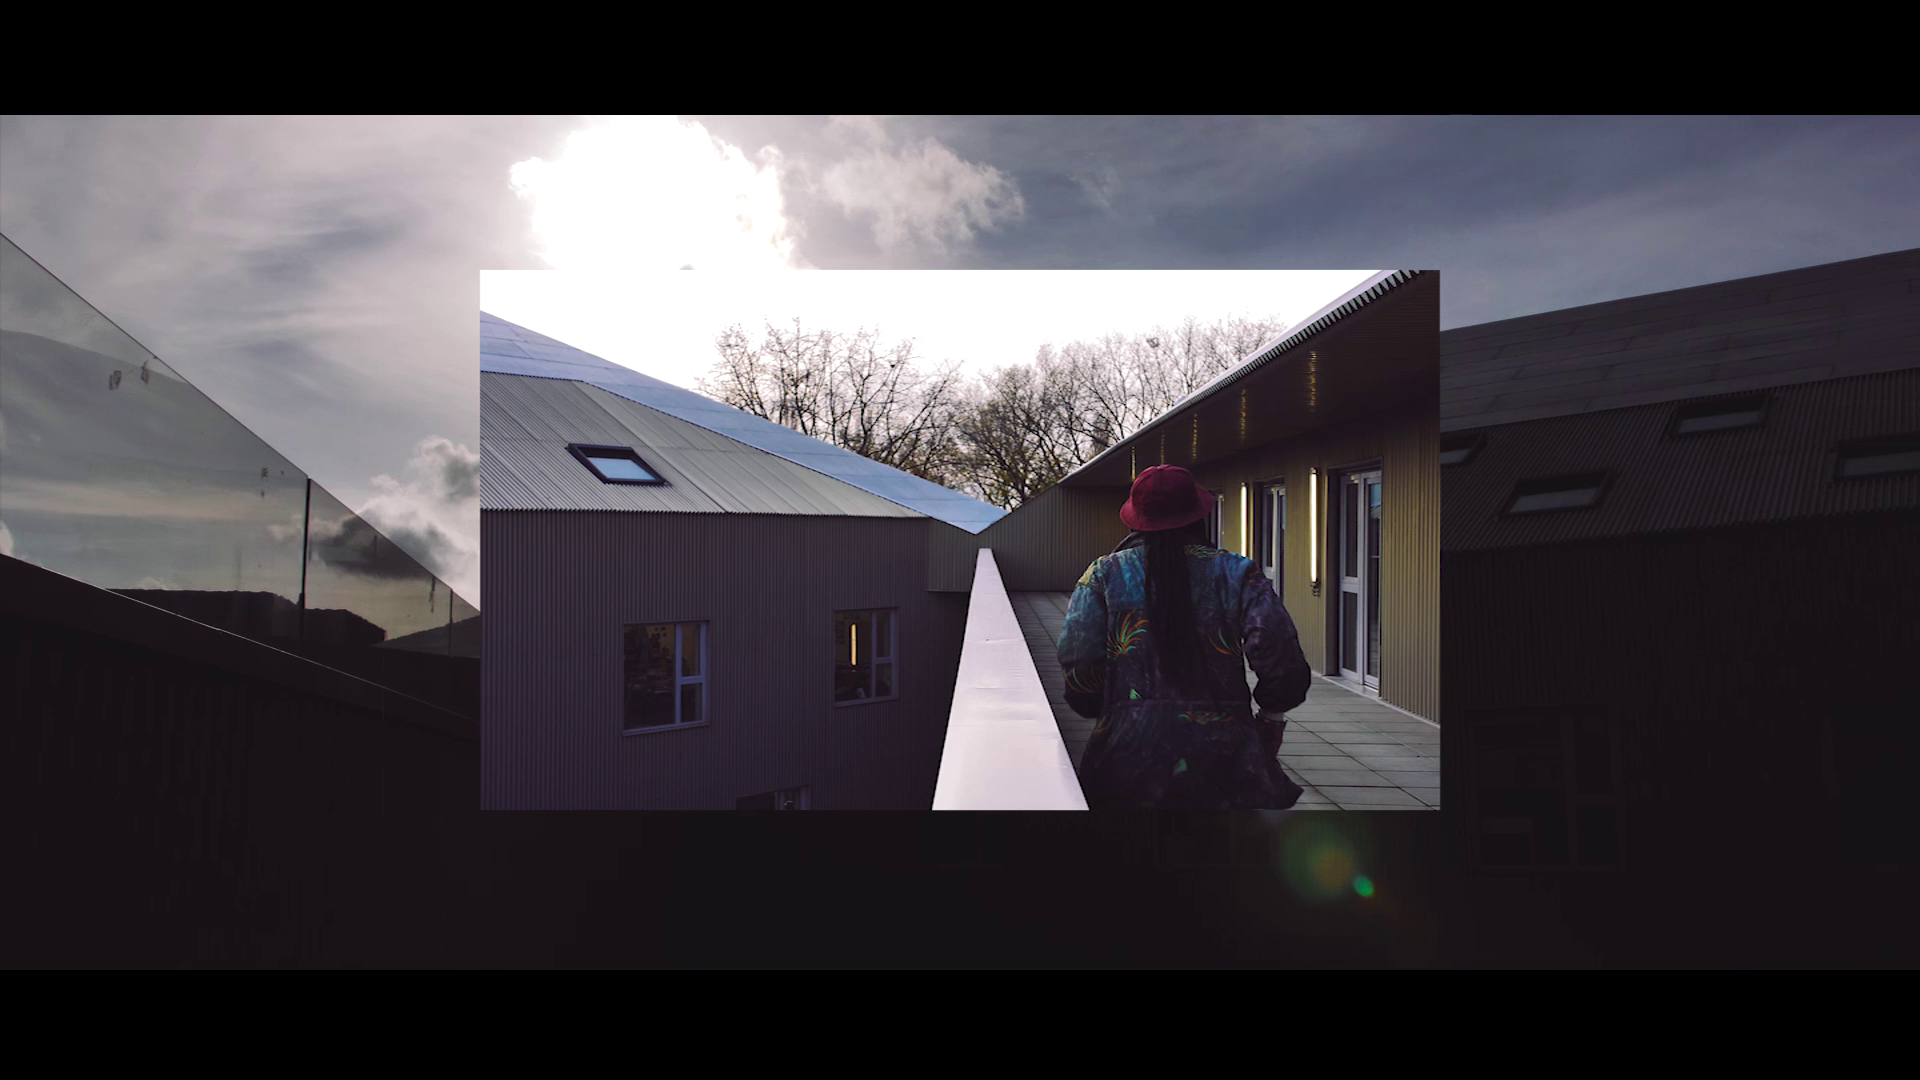
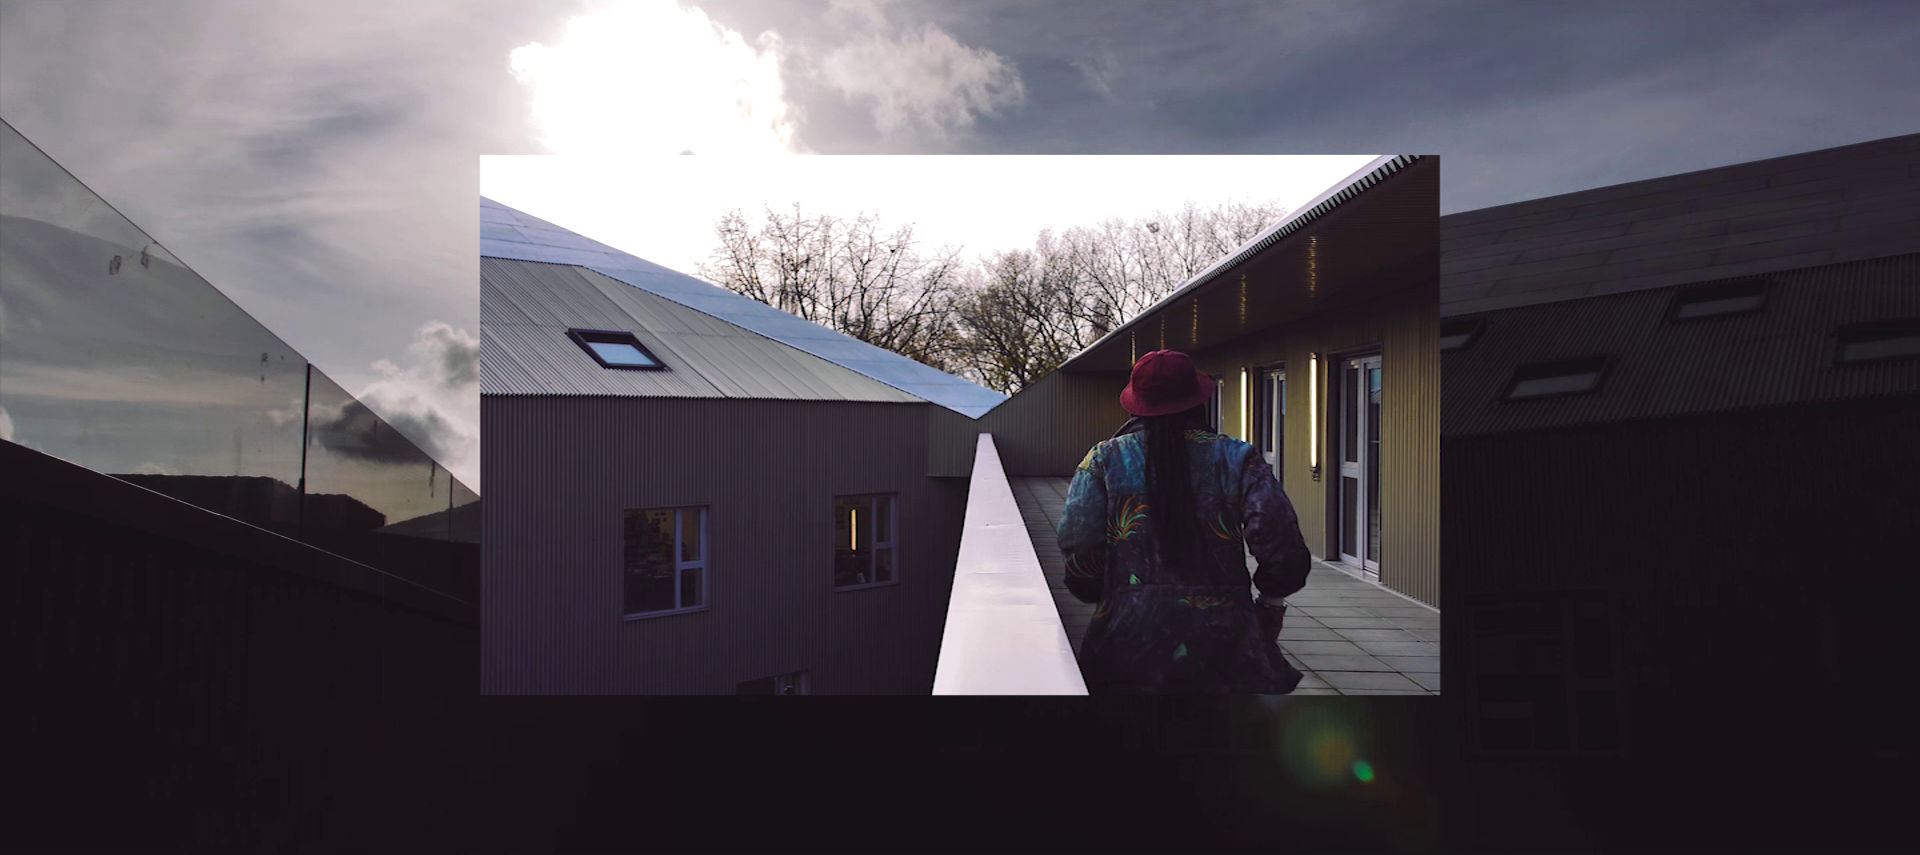
responsive ready from 1920px to 1024px

diff --git a/public/css/style.css b/public/css/style.css
@@ -31,6 +31,9 @@ a:focus {
     top:0;
     z-index: 1;
 }
+#navbar > div:first-child {
+    width: 25%;
+}
 #navbar > div:first-child a img{
     height: 100%;
 }
@@ -71,6 +74,9 @@ a:focus {
 }
 
 /* footer */
+footer {
+    background-color: #ffffff;
+}
 footer > div:first-child{
     display: flex;
     flex-direction: column;
@@ -120,17 +126,68 @@ footer > div:first-child iframe{
     margin: 15px 0px;
 }
 
-footer > div:last-child{
-    height: 100px;
+footer > div:nth-child(2){
+    display: flex;
+}
+footer > div:nth-child(2) > div {
+    flex: 1;
+    height: 80px;
+    display: flex;
+}
+footer > div:nth-child(2) > div > a {
+    color: #4d4d4d;
+    font-weight: 600;
     display: flex;
     align-items: center;
-    background-color: #ffffff;
+    text-decoration: none;
 }
+footer > div:nth-child(2) > div > a:hover {
+    background-color: rgba(77,77,77,0.15);
+}
+footer > div:nth-child(2) > div:first-child > img {
+    height: 80px;
+}
+footer > div:nth-child(2) > div:nth-child(2) > a {
+    padding: 0 1em;
+    text-transform: uppercase;
+}
+footer > div:nth-child(2) > div:nth-child(2) {
+    justify-content: center;
+}
+footer > div:nth-child(2) > div:last-child {
+    justify-content: flex-end;
+    margin: 0 1em 0 0;
+}
+footer > div:nth-child(2) > div:last-child > a {
+    padding: 0 0.5em;
+}
+
+footer > div:last-child {
+    display: flex;
+    font-size: 0.9em;
+    justify-content: space-between;
+    flex-wrap: wrap;
+}
+footer > div:last-child > p {
+    margin: 0 0.1em 0.1em 0.1em;
+    white-space: nowrap;
+}
+footer > div:last-child > p:nth-child(3) {
+    display: none;
+}
+
+/*
 footer > div:last-child > div:first-child, footer > div > div:last-child{
     flex: 1;
+    display: flex;
+    flex-direction: column;
+    height: 100%;
 }
-footer > div:last-child > div:first-child img{
-    height: 78px;
+footer > div:last-child > div:first-child > div {
+    height: 100%;
+}
+footer > div:last-child > div:first-child > div > img{
+    height: 100%;
 }
 footer > div:last-child > div:first-child p{
     margin: 0;
@@ -152,11 +209,7 @@ footer > div:last-child div:nth-child(2) p {
     display: none;
 }
 footer > div:last-child div:nth-child(2) > div a {
-    padding: 0 1em;
-    color: #4d4d4d;
-    text-decoration: none;
-    text-transform: uppercase;
-    font-weight: 600;
+
     display: flex;
     align-items: center;
 }
@@ -168,10 +221,10 @@ footer > div:last-child > div:last-child {
     height: 100%;
 }
 footer > div:last-child > div:last-child div {
+    flex: 1;
     display: flex;
-    height: 78px;
     align-items: center;
-    justify-content: end;
+    justify-content: flex-end;
 }
 footer > div:last-child > div:last-child div a {
     padding: 0 0.5em;
@@ -188,4 +241,4 @@ footer > div:last-child > div:last-child p {
     font-size: 0.9em;
     margin: 0;
     text-align: right;
-}
+} */

diff --git a/public/js/video.js b/public/js/video.js
@@ -1,4 +1,13 @@
+const changeQuality = function(resolution){
+    let curtime = video.currentTime;
+    $('source','video').attr('src','public/videos/showreel_' + resolution + '.mp4');
+    video.load();
+    video.currentTime = curtime;
+    video.play();
+}
+
 const videoControls = function(trigger, video, seekBar, container){
+    $("#1080p").css("color", "rgba(77,77,77,0.9)");
     trigger.addEventListener("click", function(e){
         if(video.paused){
             video.play();
@@ -21,6 +30,18 @@ const videoControls = function(trigger, video, seekBar, container){
     video.addEventListener("timeupdate", function() {
         let value = (100 / video.duration) * video.currentTime;
         document.getElementsByTagName("line")[0].setAttribute("x2", value + "%");
+    });
+    document.getElementById("720p").addEventListener("click", function(){
+        changeQuality("720");
+        trigger.style.display = "none";
+        $(this).css("color", "#ffffff");
+        $("#1080p").css("color", "rgba(77,77,77,0.9)");
+    });
+    document.getElementById("1080p").addEventListener("click", function(){
+        changeQuality("1080");
+        trigger.style.display = "none";
+        $(this).css("color", "#ffffff");
+        $("#720p").css("color", "rgba(77,77,77,0.9)");
     });
     document.getElementById("full-screen").addEventListener("click", function() {
         if (document.fullscreenElement) {

diff --git a/public/css/index/indexPage.css b/public/css/index/indexPage.css
@@ -44,13 +44,29 @@ header > div {
     font-size: 2em;
     width: 100%;
 }
-header > div > div {
+header > div > div:first-child {
     width: 100%;
 }
-header > div > i {
-    margin: 0em 0.5em;
+header > div #video-quality > div {
+    position: absolute;
+    transform: translate(-1em, -100%);
+    display: none;
+    background-color: rgba(0, 0, 0, 0.9);
+    color: #ffffff;
 }
-header > div > i:hover {
+header > div #video-quality:hover > div {
+    display: block;
+}
+header > div #video-quality > div > p {
+    margin: 0;
+    padding: 0.2em;
+    font-size: 0.8em;
+    cursor: default;
+}
+header > div i {
+    margin: 0 0.5em 0.5em 0;
+}
+header > div i:hover {
     color: rgba(77,77,77,0.9);
 }
 header > div > div > svg {
@@ -118,7 +134,7 @@ section p {
     overflow: hidden;
 }
 #whoAreWe > div:last-child img {
-    width: 150%;
+    width: 166%;
     position: absolute;
     top: 50%;
     right: 0%;
@@ -176,7 +192,6 @@ section p {
     background-color: #ffffff;
 }
 #ourSkills > div:first-child img {
-    width: 120%;
     position: absolute;
     top: 50%;
     transform: translateY(-50%);

diff --git a/public/css/index/reviews.css b/public/css/index/reviews.css
@@ -8,6 +8,7 @@
     font-size: 3em;
     color: #555555;
     border: none;
+    outline: none;
 }
 #reviewsDisplay > div:first-child > button:hover {
     color: #000000;
@@ -39,7 +40,8 @@
     overflow: hidden;
     justify-content: center;
 }
-#reviewsDisplay > div:first-child > a > div:first-child > div > img {
+/* svg exception for chrome : had to remove it to prevent image crop */
+#reviewsDisplay > div:first-child > a > div:first-child > div > img:not([src$='.svg']) {
     object-fit: cover;
 }
 #reviewsDisplay > div:first-child > a > div:first-child > div > img[src$='.svg'] {

diff --git a/public/css/projects/projectsPage.css b/public/css/projects/projectsPage.css
@@ -1,13 +1,12 @@
 header {
     position: relative;
-    overflow: hidden;
 }
 header img {
     width: 100%;
     position: absolute;
     z-index: -1;
     top: 50%;
-    transform: translateY(-50%);
+    transform: translateY(-45%);
 }
 header > div {
     text-align: center;

diff --git a/public/css/skills/skillsPage.css b/public/css/skills/skillsPage.css
@@ -170,6 +170,6 @@ section > div > div > a > i {
     margin-top: 23px;
 }
 
-footer > div:last-child div:nth-child(2) p {
+footer > div:last-child > p:nth-child(3) {
     display: block;
 }

diff --git a/public/css/style-medium.css b/public/css/style-medium.css
@@ -1,0 +1,6 @@
+footer > div:last-child {
+    justify-content: center;
+}
+footer > div:last-child > p {
+    margin: 0 3em 0.1em 3em;
+}

diff --git a/view/frontendTemplate.php b/view/frontendTemplate.php
@@ -4,21 +4,23 @@
 <head>
     <meta charset="utf-8" />
     <meta name="viewport" content="width=device-width, initial-scale=1.0">
-
     <title><?= $title ?></title>
-
     <link rel="icon" href="public/images/eye.jpg" />
 
     <link href="https://fonts.googleapis.com/css?family=Roboto:100,300,400,700,900&display=swap" rel="stylesheet">
     <link rel="stylesheet" href="https://use.fontawesome.com/releases/v5.8.1/css/all.css" integrity="sha384-50oBUHEmvpQ+1lW4y57PTFmhCaXp0ML5d60M1M7uH2+nqUivzIebhndOJK28anvf" crossorigin="anonymous">
 
+    <!-- global css stylesheets -->
     <link rel="stylesheet" href="public/css/style.css" />
-    <!-- <link rel="stylesheet" media="screen and (max-width: 426px)" href="public/css/style-smartphone.css">
+    <link rel="stylesheet" media="screen and (max-width: 426px)" href="public/css/style-smartphone.css">
     <link rel="stylesheet" media="screen and (max-width: 768px)" href="public/css/style-tablet.css">
     <link rel="stylesheet" media="screen and (max-width: 1024px)" href="public/css/style-small.css">
-    <link rel="stylesheet" media="screen and (max-width: 1440px)" href="public/css/style-medium.css"> -->
+    <link rel="stylesheet" media="screen and (max-width: 1440px)" href="public/css/style-medium.css">
+
+    <!-- specific pages stylesheets -->
     <link rel="stylesheet" href="public/css/<?php echo $page ?>/<?php echo $page ?>Page.css">
 
+    <!-- specific elements stylesheets -->
     <?php if($page == ("index" || "backend")){ ?>
     <link rel="stylesheet" href="public/css/index/reviews.css" />
     <?php }
@@ -29,6 +31,7 @@
     <link rel="stylesheet" href="public/css/projects/projects.css" />
     <?php } ?>
 
+    <!-- javascript scripts -->
     <script src="https://ajax.googleapis.com/ajax/libs/jquery/3.4.1/jquery.min.js"></script>
     <?php if($page == ("index" || "projects" || "skills" || "articles" || "contact")){ ?>
     <script src="public/js/frontend/eyeblink.js"></script>
@@ -93,25 +96,24 @@
         <div>
             <div>
                 <img src="public/images/logos/inlineLogo.jpg" alt="logo oeil Chaud Mirette Productions">
-                <p>Copyright &copy;2019 Chaud Mirette Productions - Mentions légales - <a href="index.php?action=privacyView">Politique de confidentialité</a></p>
             </div>
             <div>
-                <div>
-                    <a href="index.php?action=projectsView">Réalisations</a>
-                    <a href="index.php?action=skillsView">Compétences</a>
-                    <a href="index.php?action=contactView">Contact</a>
-                </div>
-                <p>Drone icon from <a href="www.freepik.com">www.freepik.com</a></p>
+                <a href="index.php?action=projectsView">Réalisations</a>
+                <a href="index.php?action=skillsView">Compétences</a>
+                <a href="index.php?action=contactView">Contact</a>
             </div>
             <div>
-                <div>
-                    <a href="https://www.instagram.com/chaudmirette_prod/"><i class="fab fa-instagram"></i></a>
-                    <a href="https://fr.linkedin.com/in/roxane-balcerek-718728134"><i class="fab fa-linkedin-in"></i></a>
-                    <a href="https://www.youtube.com/channel/UCTnIumn2sT4wIQL3qFRteRA/videos"><i class="fab fa-youtube"></i></a>
-                    <a href="https://www.facebook.com/chaud.mirette/"><i class="fab fa-facebook-f"></i></a>
-                </div>
-                <p>Site développé par <a href="https://qbog.fr/">Quentin Bogaert</a>, design graphique par <a href="https://www.behance.net/eric-colin-webdesign">Eric Colin</a></p>
+                <a href="https://www.instagram.com/chaudmirette_prod/"><i class="fab fa-instagram"></i></a>
+                <a href="https://fr.linkedin.com/in/roxane-balcerek-718728134"><i class="fab fa-linkedin-in"></i></a>
+                <a href="https://www.youtube.com/channel/UCTnIumn2sT4wIQL3qFRteRA/videos"><i class="fab fa-youtube"></i></a>
+                <a href="https://www.facebook.com/chaud.mirette/"><i class="fab fa-facebook-f"></i></a>
             </div>
+        </div>
+        <div>
+            <p>Copyright &copy;2019 Chaud Mirette Productions - Mentions légales</p>
+            <p><a href="index.php?action=privacyView">Politique de confidentialité</a> - Sitemap</p>
+            <p>Drone icon from <a href="www.freepik.com">www.freepik.com</a></p>
+            <p>Site développé par <a href="https://qbog.fr/">Quentin Bogaert</a></p>
         </div>
     </footer>
     <?php } ?>

diff --git a/view/indexView.php b/view/indexView.php
@@ -13,6 +13,13 @@ $page = "index";
         <div>
             <svg width="100%" height="10px"><line id="seek-bar" x1="0" y1="0" x2="0%" y2="0" /></svg>
         </div>
+        <div id="video-quality">
+            <div>
+                <p id="1080p">1080p</p>
+                <p id="720p">720p</p>
+            </div>
+            <i class="fas fa-cog"></i>
+        </div>
         <i id="full-screen" class="fas fa-expand"></i>
     </div>
 </header>

diff --git a/view/projectsView.php b/view/projectsView.php
@@ -4,7 +4,7 @@ $page = "projects";
  ?>
 
 <header>
-    <img src="public/images/frontend/projects/projects.png" />
+    <img src="public/images/frontend/projects/projects-light.png" />
     <div>
         <h1>Nos <span>réalisations vidéos &amp; motion design</span></h1>
         <p>Ce qui vous permettra d'y voir plus clair, et de nous faire confiance !</p>
